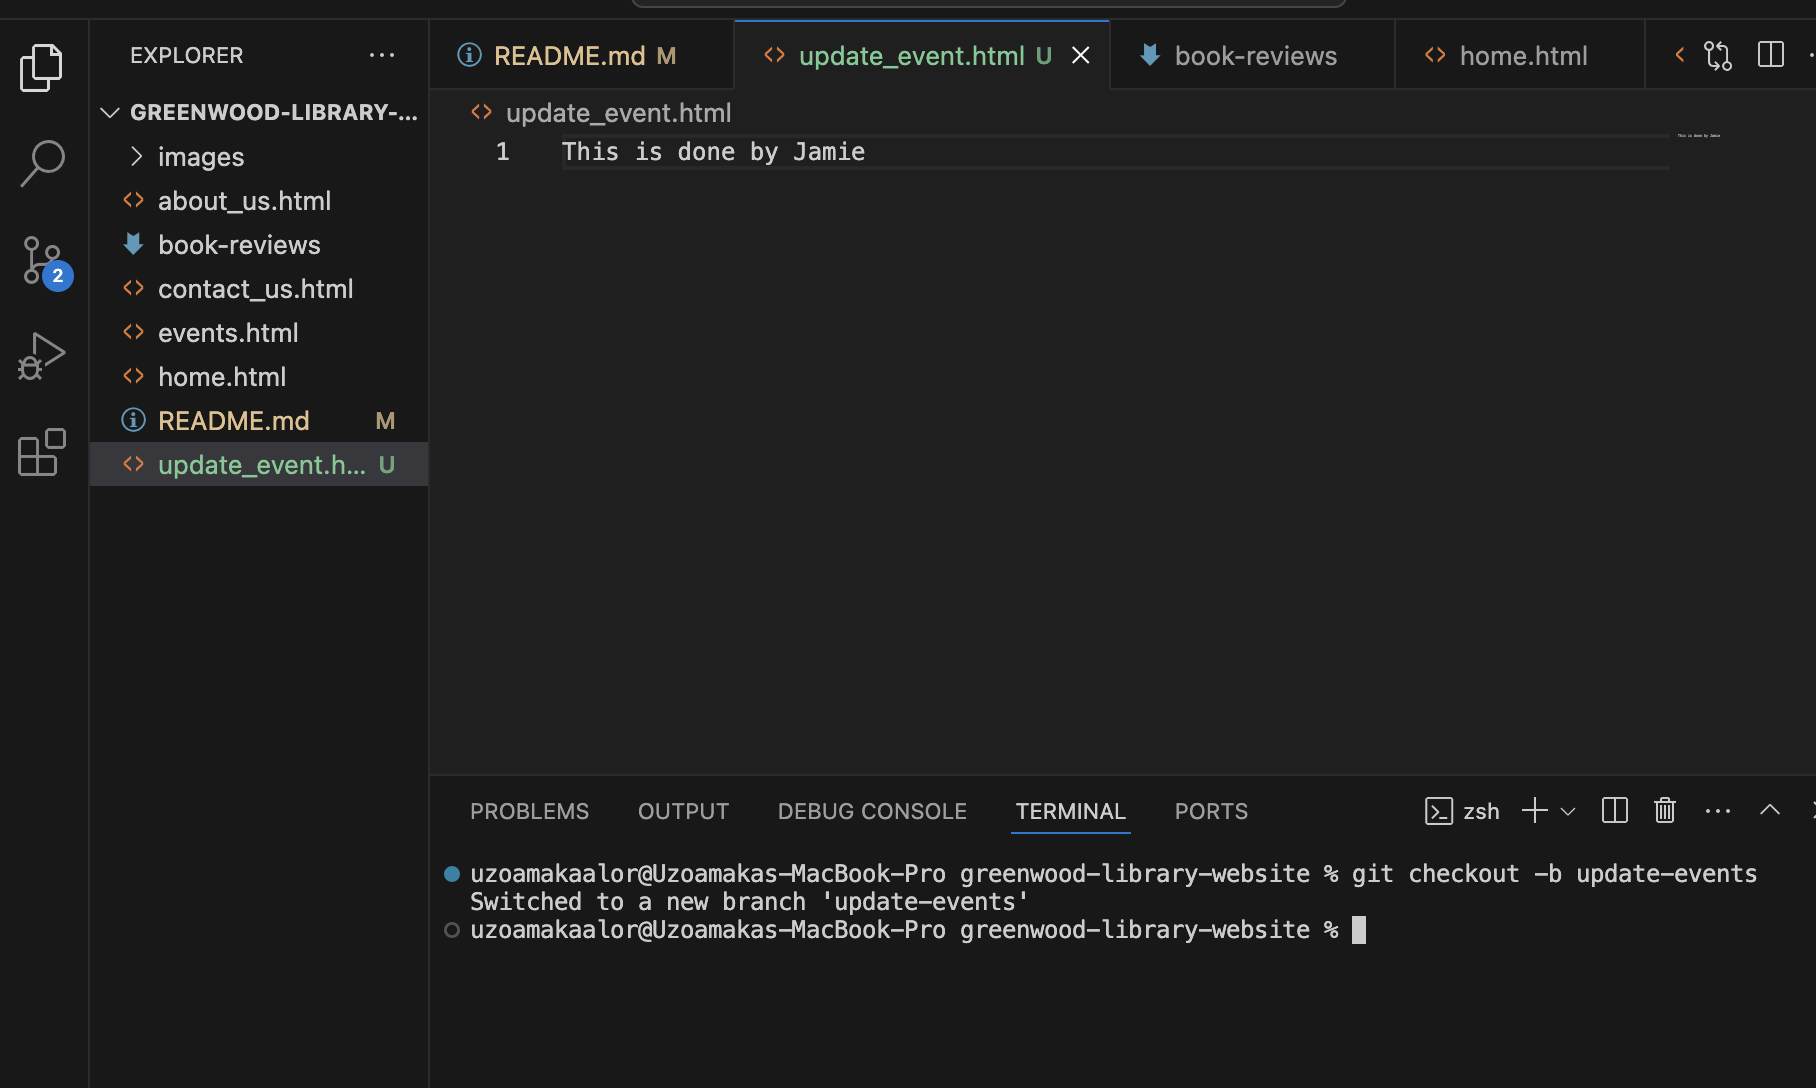
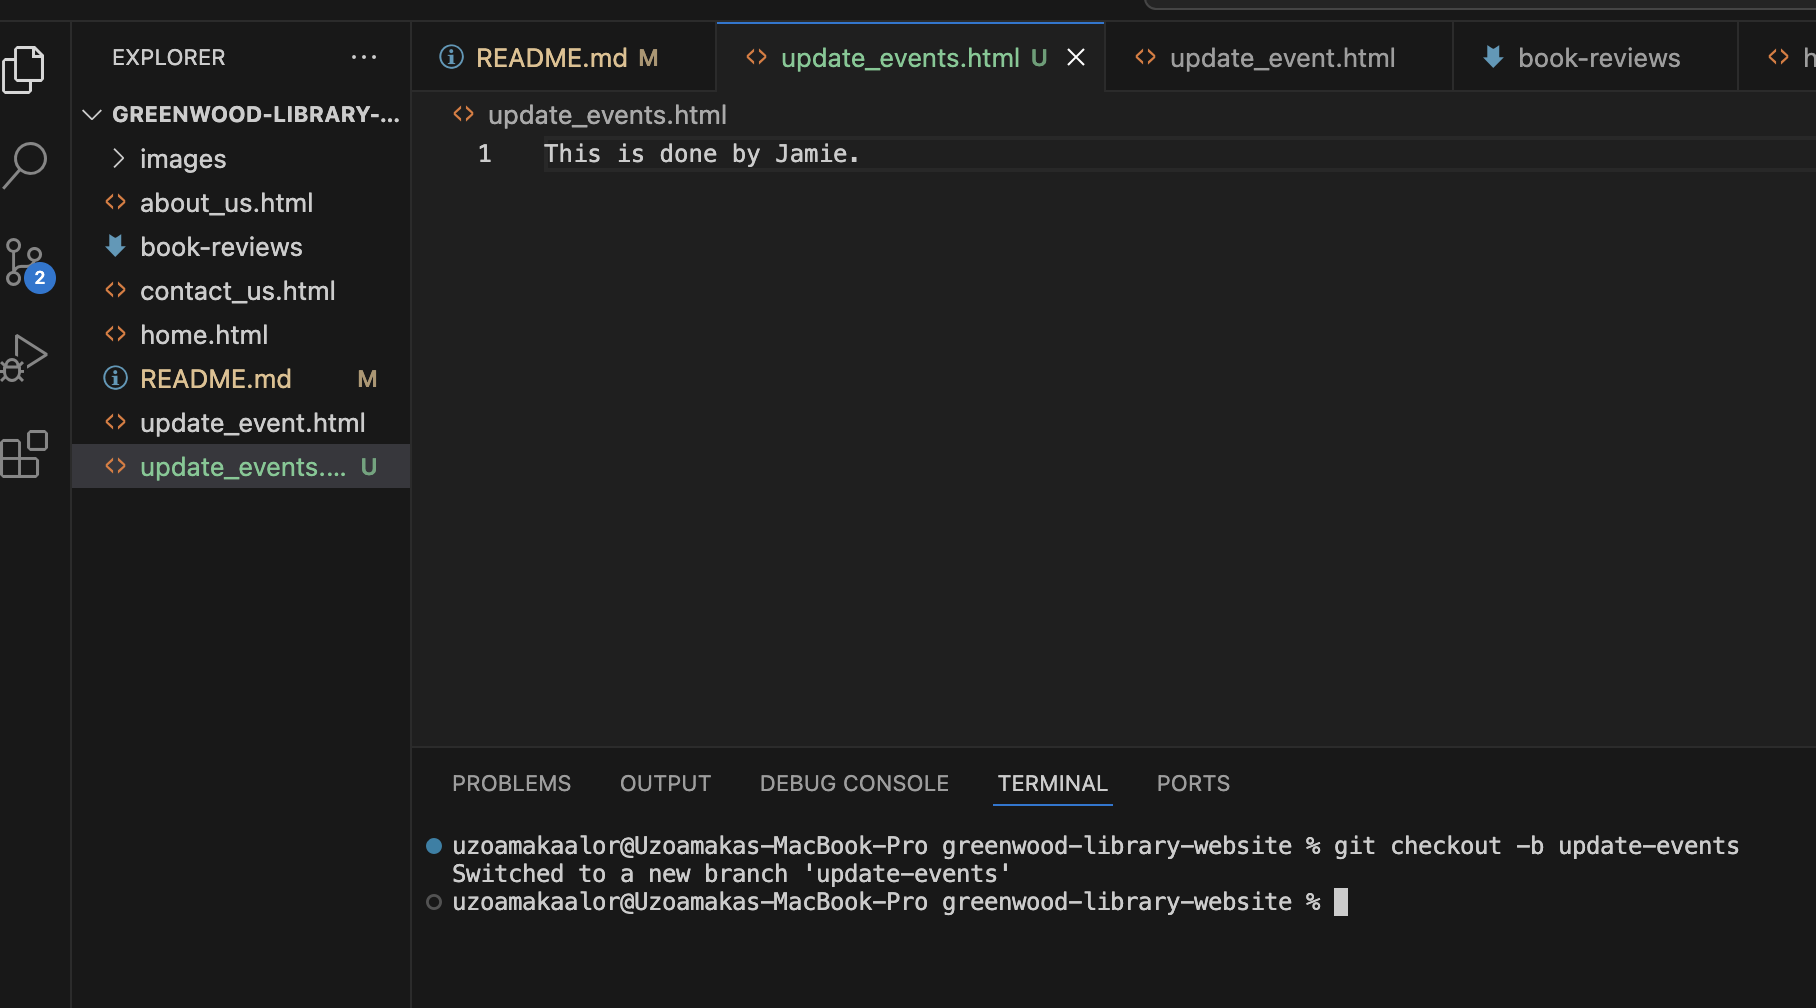
done by Jamie

diff --git a/update_events.html b/update_events.html
@@ -1,0 +1,1 @@
+This is done by Jamie. 

diff --git a/README.md b/README.md
@@ -19,3 +19,7 @@ Stage, commit and push these changes to the **add-book-reviews** branch.
 Here we have the changes made on the **add-book-reviews** branch pulled into the main branch, also this has been committed and pushed to the main branch repository. 
 ![](./images/6.png)
 ![](./images/7.png)
+
+Here we are creating a new branch for Jamie, branch name is **update-events**
+Also creating a new file, commit and stage these changes. 
+![done by jamie](./images/8.png)
